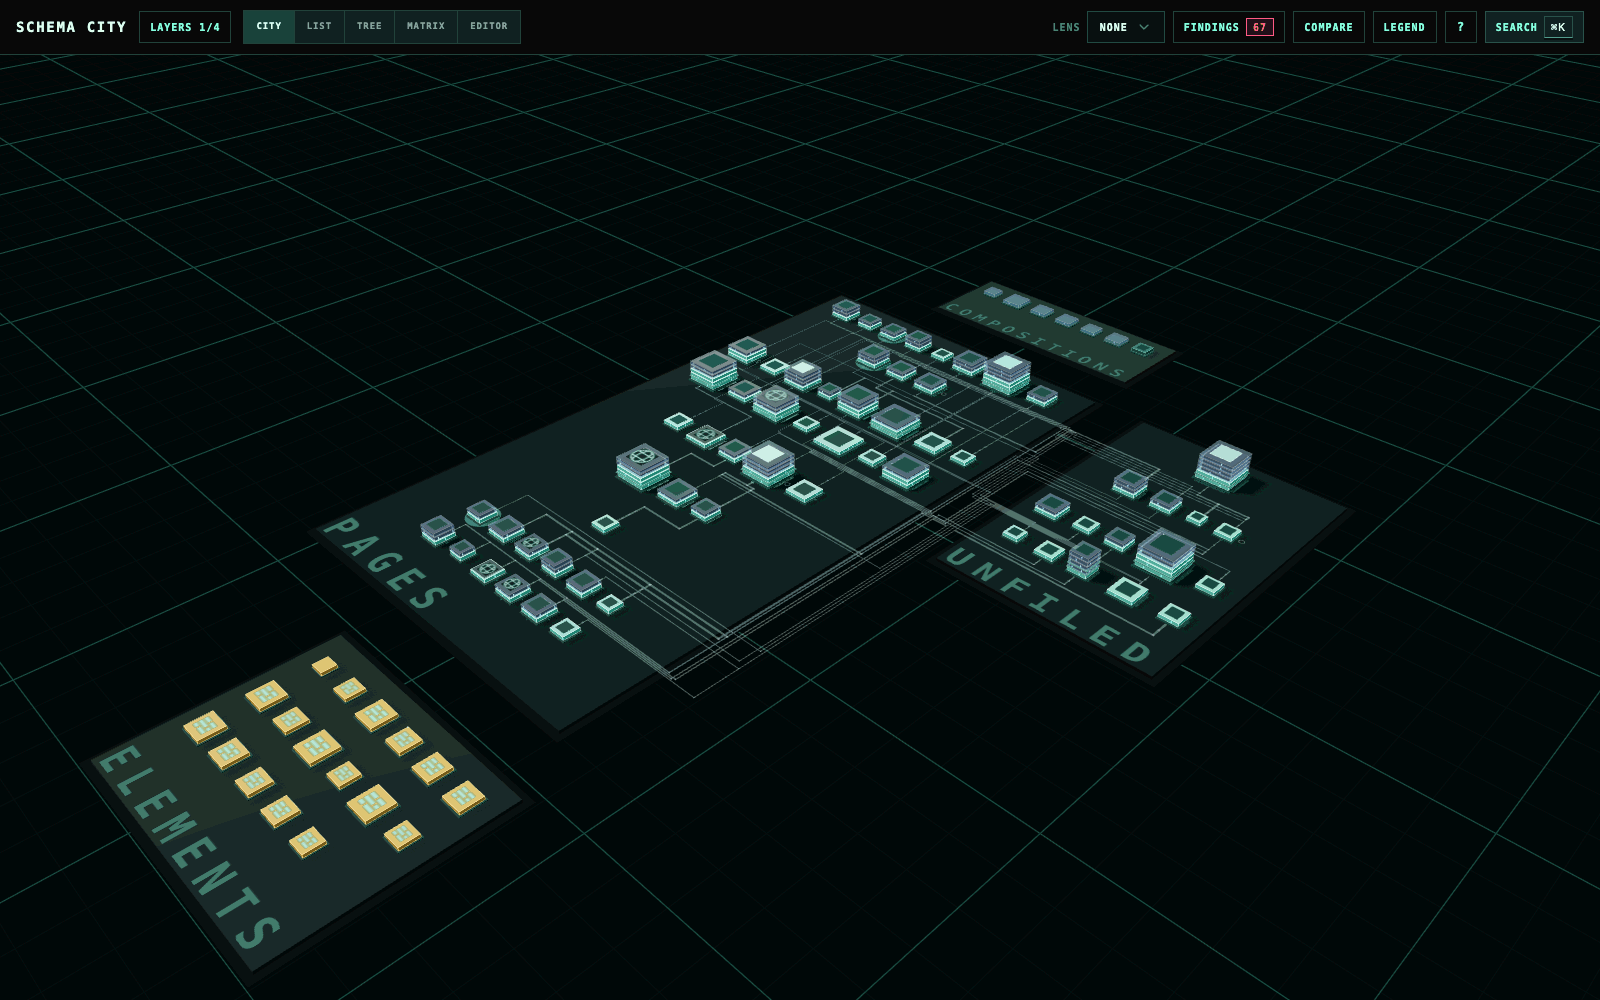
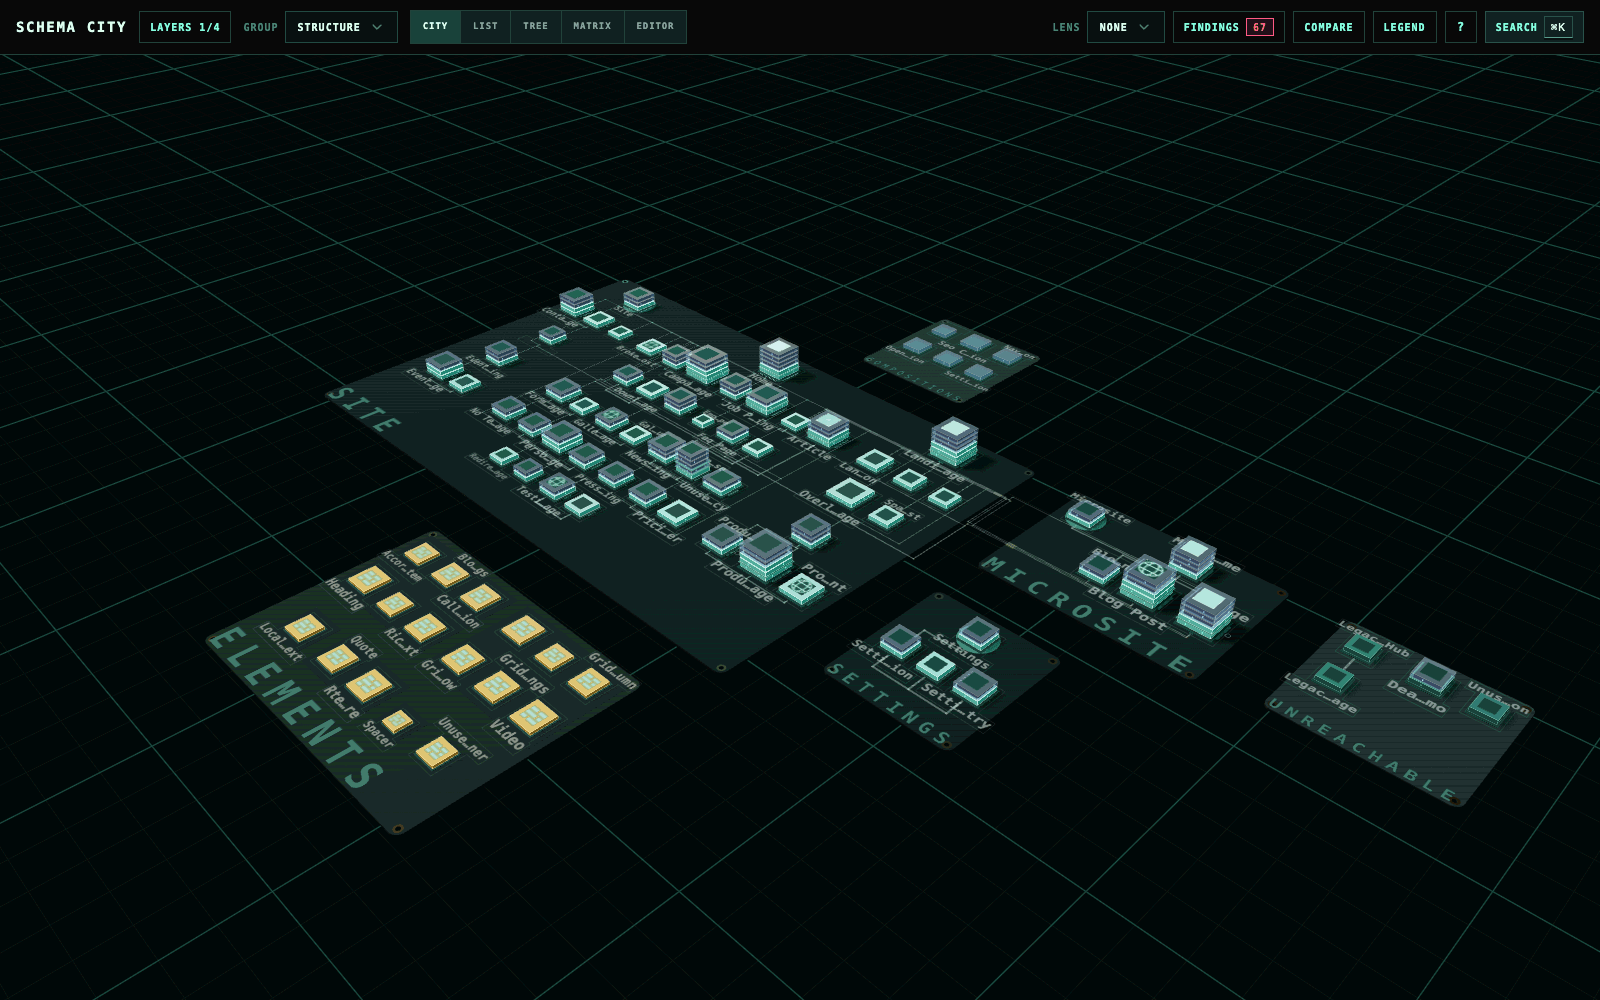
docs: refresh the city, focus, lens and free camera screenshots and add a closer one of the printed names

diff --git a/README.md b/README.md
@@ -61,12 +61,14 @@ readable when you orbit to the far side. Hover a building to see its direct conn
 names of connected types; the names of unrelated types dim. Floating labels that would overlap stay
 hidden until there is room for them. A name shows once: a related type whose whole name the board
 prints on screen gets no floating label, and a type with a floating label is not printed under it.
-Click a building to keep its connections visible and open the inspector. Its header names the type, its role (page, composition or Element Type) and how much
-content uses it. Overview lists the schema checks for the type, its usage, and its related types,
+Click a building to keep its connections visible and open the inspector. Its header names the
+type, its role (page, composition or Element Type) and how much content uses it. Overview lists the schema checks for the type, its usage, and its related types,
 with content counts once usage has loaded. Properties shows each group with the composition it
 comes from and each property's Data Type. Connections lists every configured connection by kind,
 block and picker targets by property, and the references counted in content separately. Click a
 related type to select it.
+
+![Closer in on the Site board, where the printed names come out whole inside their courtyards, with vias where traces turn and a gold finger where traces leave for the Microsite board.](https://raw.githubusercontent.com/thebuilder/umbraco-schema-city/main/docs/screenshots/names.png)
 
 Each district is a circuit board: a core with copper and solder mask over it, rounded corners with
 plated mounting holes, and a faint copper pour. A gold finger on a board's edge marks each lane of
